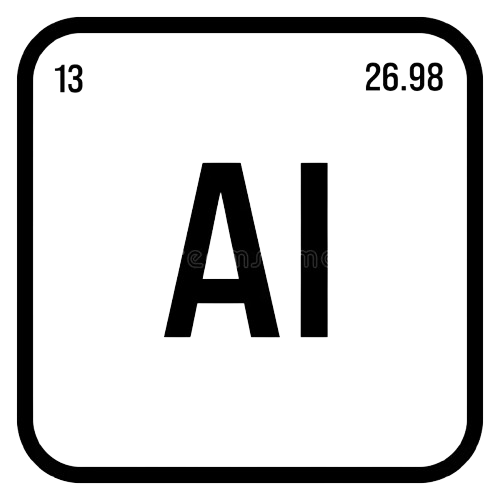
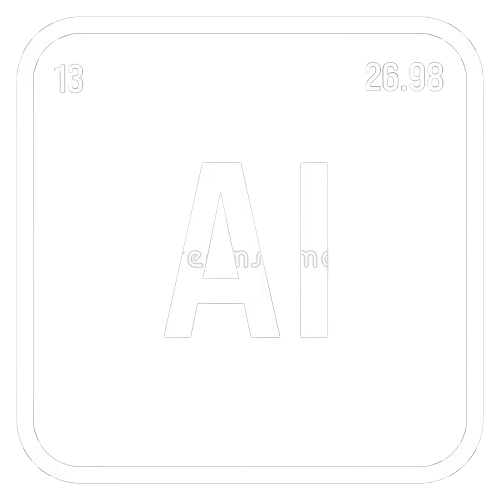
Style changes for contrast
I changed the style.css and changed the color of icon.png to better fit make allow people who struggle to see colors have a smoother experince

diff --git a/style/style.css b/style/style.css
@@ -1,7 +1,21 @@
+/* General */
 body{
     background-color: rgb(252,252,252);
     margin: 0 auto;
 }
+
+a {
+    color: #0060B6;
+    text-decoration: none;
+    color: inherit;
+}
+
+a:hover {
+    color:#0004DB; 
+    text-decoration:none; 
+    cursor:pointer;  
+}
+/* General */
 
 /* Header Section */
 
@@ -10,7 +24,7 @@ header{
     flex-direction: row;
     height: 125px;
     width: 1500px;
-    background-color: #9C9EFF;
+    background-color: #0004DB;
     margin: 0 auto;
     align-items: center;
 }
@@ -30,6 +44,7 @@ header{
 }
 
 .new, .history, .help {
+    color: #FAF5FF;
     font-family: 'Kantumruy Pro';
     font-size: 60px;
     padding: 20px;
@@ -49,7 +64,7 @@ header{
 .NavBar {
     display: flex;
     align-items: center;
-    background: #9C9EFF;
+    background: #0004DB;
     color: white;
     width: 1080px;
     max-width: 1080px;
@@ -57,7 +72,7 @@ header{
     border-radius: 45px;
     font-size: 60px;
     padding: 0 20px; 
-    color: black;
+    color: white;
     overflow: hidden;
     caret-color: transparent;
 }
